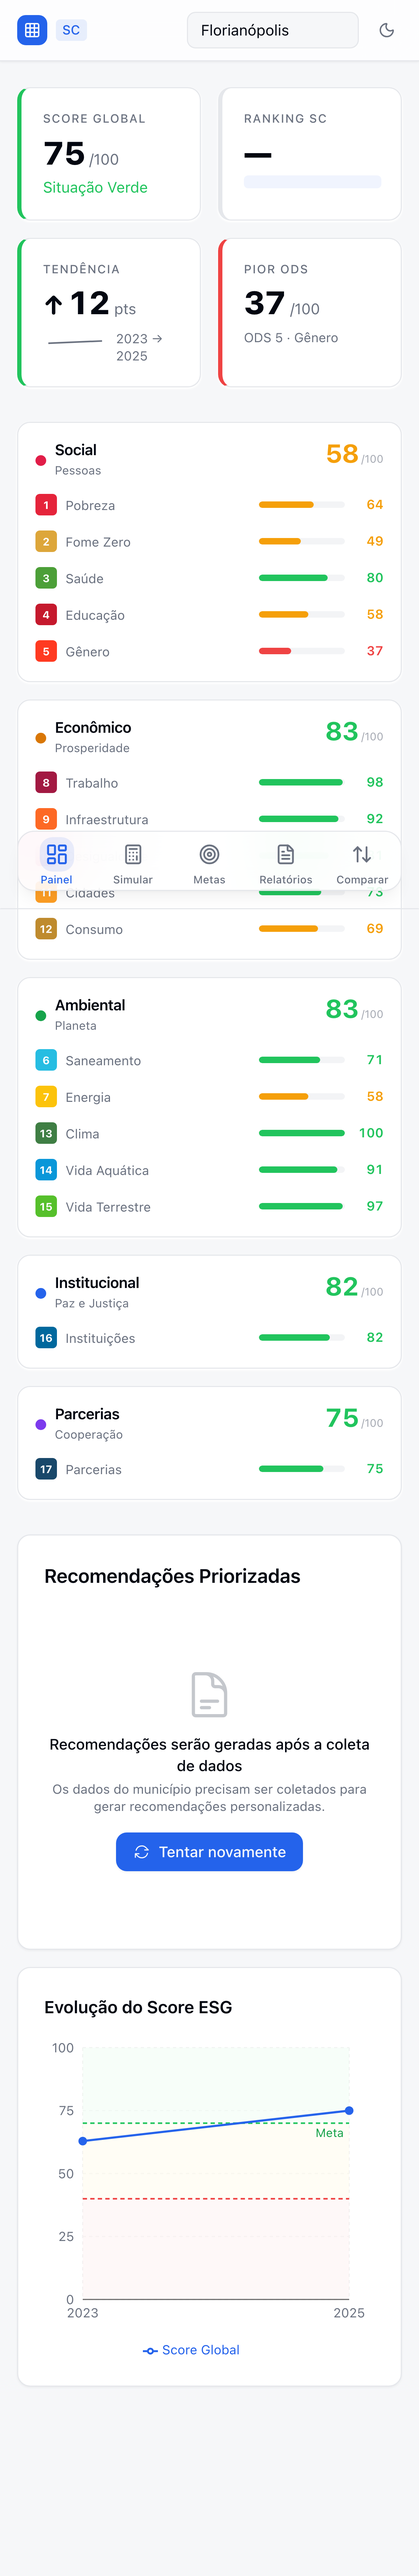
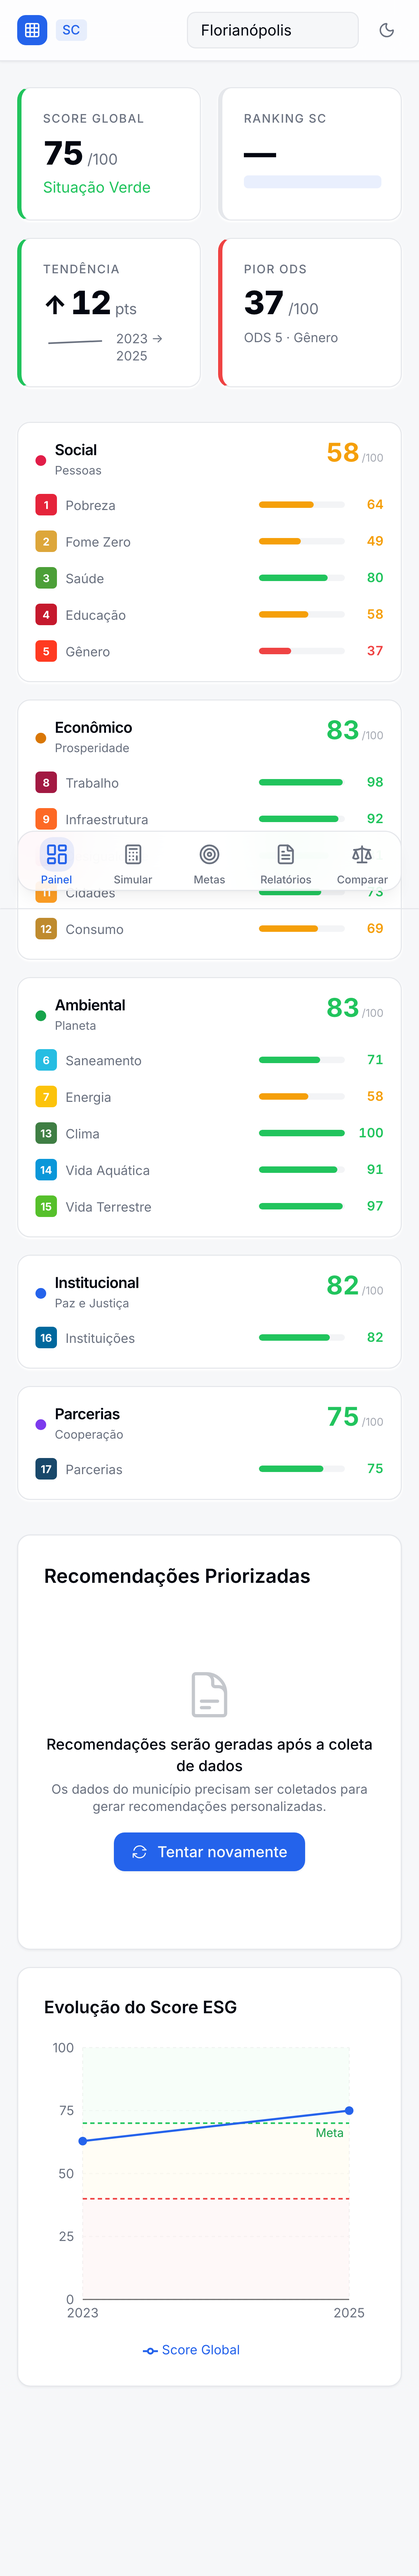
fix(ux): ícone Comparar (Scale), warnings limpos nos testes
- Ícone Comparar: ArrowUpDown → Scale (balança) em FloatingBottomTabBar
  e NavigationRail — semanticamente correto para benchmark
- Testes: React Router future flags (v7_startTransition,
  v7_relativeSplatPath) eliminam warnings de deprecação
- Testes: Recharts width(0)/height(0) warnings suprimidos no
  KpiCards.test.tsx — jsdom não tem layout engine, esperado
- Screenshots atualizados com ícone correto

diff --git a/frontend/src/components/dashboard/__tests__/KpiCards.test.tsx b/frontend/src/components/dashboard/__tests__/KpiCards.test.tsx
@@ -26,6 +26,27 @@ globalThis.ResizeObserver = class ResizeObserver {
 };
 
 // ---------------------------------------------------------------------------
+// Suppress Recharts "width(0) and height(0)" warnings in jsdom.
+// jsdom has no layout engine, so containers always report 0x0 — expected.
+// ---------------------------------------------------------------------------
+const originalWarn = console.warn;
+const originalError = console.error;
+beforeAll(() => {
+  console.warn = (...args: unknown[]) => {
+    if (typeof args[0] === "string" && args[0].includes("width(0) and height(0)")) return;
+    originalWarn(...args);
+  };
+  console.error = (...args: unknown[]) => {
+    if (typeof args[0] === "string" && args[0].includes("width(0) and height(0)")) return;
+    originalError(...args);
+  };
+});
+afterAll(() => {
+  console.warn = originalWarn;
+  console.error = originalError;
+});
+
+// ---------------------------------------------------------------------------
 // Factories
 // ---------------------------------------------------------------------------
 

diff --git a/frontend/src/components/layout/NavigationRail.tsx b/frontend/src/components/layout/NavigationRail.tsx
@@ -1,12 +1,5 @@
 import { NavLink, useLocation } from "react-router-dom";
-import {
-  LayoutDashboard,
-  Calculator,
-  FileText,
-  BarChart3,
-  ArrowUpDown,
-  LogOut,
-} from "lucide-react";
+import { LayoutDashboard, Calculator, FileText, BarChart3, Scale, LogOut } from "lucide-react";
 import { cn } from "@/lib/utils";
 
 interface RailItem {
@@ -20,7 +13,7 @@ const RAIL_ITEMS: RailItem[] = [
   { to: "/simulator", label: "Simulador", icon: Calculator },
   { to: "/reports", label: "Relatórios", icon: FileText },
   { to: "/monitoring", label: "Monitoramento", icon: BarChart3 },
-  { to: "/benchmark", label: "Comparativo", icon: ArrowUpDown },
+  { to: "/benchmark", label: "Comparativo", icon: Scale },
 ];
 
 interface NavigationRailProps {

diff --git a/frontend/src/components/layout/FloatingBottomTabBar.tsx b/frontend/src/components/layout/FloatingBottomTabBar.tsx
@@ -1,5 +1,5 @@
 import { NavLink, useLocation } from "react-router-dom";
-import { LayoutDashboard, Calculator, FileText, Target, ArrowUpDown } from "lucide-react";
+import { LayoutDashboard, Calculator, FileText, Target, Scale } from "lucide-react";
 import { cn } from "@/lib/utils";
 
 interface TabItem {
@@ -13,7 +13,7 @@ const TABS: TabItem[] = [
   { to: "/simulator", label: "Simular", icon: Calculator },
   { to: "/monitoring", label: "Metas", icon: Target },
   { to: "/reports", label: "Relatórios", icon: FileText },
-  { to: "/benchmark", label: "Comparar", icon: ArrowUpDown },
+  { to: "/benchmark", label: "Comparar", icon: Scale },
 ];
 
 export function FloatingBottomTabBar() {

diff --git a/frontend/src/components/layout/__tests__/NavigationRail.test.tsx b/frontend/src/components/layout/__tests__/NavigationRail.test.tsx
@@ -5,7 +5,10 @@ import { NavigationRail } from "../NavigationRail";
 
 function renderWithRouter(initialPath = "/dashboard", onLogout = vi.fn()) {
   return render(
-    <MemoryRouter initialEntries={[initialPath]}>
+    <MemoryRouter
+      initialEntries={[initialPath]}
+      future={{ v7_startTransition: true, v7_relativeSplatPath: true }}
+    >
       <NavigationRail onLogout={onLogout} />
     </MemoryRouter>,
   );

diff --git a/frontend/src/components/layout/__tests__/FloatingBottomTabBar.test.tsx b/frontend/src/components/layout/__tests__/FloatingBottomTabBar.test.tsx
@@ -4,7 +4,10 @@ import { FloatingBottomTabBar } from "../FloatingBottomTabBar";
 
 function renderWithRouter(initialPath = "/dashboard") {
   return render(
-    <MemoryRouter initialEntries={[initialPath]}>
+    <MemoryRouter
+      initialEntries={[initialPath]}
+      future={{ v7_startTransition: true, v7_relativeSplatPath: true }}
+    >
       <FloatingBottomTabBar />
     </MemoryRouter>,
   );

diff --git a/frontend/src/components/recommendations/__tests__/RecommendationPanel.test.tsx b/frontend/src/components/recommendations/__tests__/RecommendationPanel.test.tsx
@@ -98,7 +98,7 @@ function renderPanel(ibgeCode = "4204202", compact = false) {
   });
   return render(
     <QueryClientProvider client={client}>
-      <MemoryRouter>
+      <MemoryRouter future={{ v7_startTransition: true, v7_relativeSplatPath: true }}>
         <RecommendationPanel ibgeCode={ibgeCode} compact={compact} />
       </MemoryRouter>
     </QueryClientProvider>,
